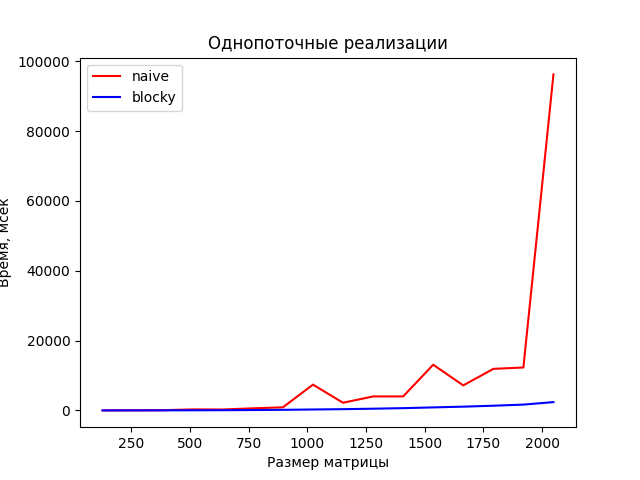
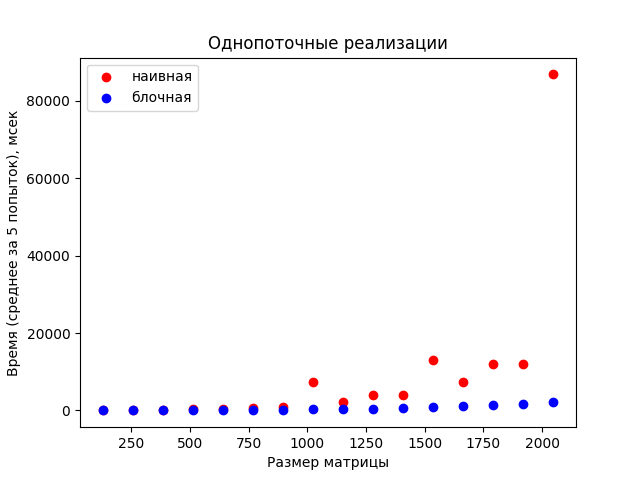
fix types of graphs

diff --git a/benchmark.py b/benchmark.py
@@ -12,6 +12,7 @@ STEP_SIZE=128
 MIN_THREADS = 2
 MAX_THREADS = 17
 STEP_THREADS = 1
+SIZE = int(np.sqrt(5 * (2 ** 20)))
 
 NUM_OF_TESTS = 5
 
@@ -51,12 +52,12 @@ compile_input_file()
 sizes = np.arange(MIN_SIZE, MAX_SIZE, STEP_SIZE)
 times1 = []
 times2 = []
-for size in sizes:
-    print(size)
+for SIZE in sizes:
+    print(SIZE)
     average1 = np.array([])
     average2 = np.array([])
     for _ in np.arange(0, NUM_OF_TESTS):
-        generate_test(size)
+        generate_test(SIZE)
         average1 = np.append(average1, execute_program(BIN_FILENAME, '1'))
         average2 = np.append(average2, execute_program(BIN_FILENAME, '2'))
     times1 = np.append(times1, np.average(average1))
@@ -64,16 +65,14 @@ for size in sizes:
 
 plt.figure('single-thread')
 plt.title('Однопоточные реализации')
-plt.plot(sizes, times1, color='red', label='naive')
-plt.plot(sizes, times2, color='blue', label='blocky')
+plt.scatter(sizes, times1, color='red', label='наивная')
+plt.scatter(sizes, times2, color='blue', label='блочная')
 plt.xlabel('Размер матрицы')
-plt.ylabel('Время, мсек')
+plt.ylabel(f'Время (среднее за {NUM_OF_TESTS} попыток), мсек')
 plt.legend()
 plt.savefig(f'{PICTURE_SERIES}1.png')
 
 
-# size = int(np.sqrt(5 * (2 ** 20)))
-size = 1000
 threads = np.arange(MIN_THREADS, MAX_THREADS, STEP_THREADS)
 times3 = []
 times4 = []
@@ -82,7 +81,7 @@ for num_of_threads in threads:
     average3 = np.array([])
     average4 = np.array([])
     for _ in np.arange(0, NUM_OF_TESTS):
-        generate_test(size)
+        generate_test(SIZE)
         average3 = np.append(average3, execute_program(BIN_FILENAME, '3', num_of_threads))
         average4 = np.append(average4, execute_program(BIN_FILENAME, '4', num_of_threads))
     times3 = np.append(times3, np.average(average3))
@@ -90,10 +89,10 @@ for num_of_threads in threads:
 
 plt.figure('multi-thread')
 plt.title('Многопоточные реализации')
-plt.plot(threads, times3, color='red', label='naive')
-plt.plot(threads, times4, color='blue', label='block')
+plt.scatter(threads, times3, color='red', label='наивная')
+plt.scatter(threads, times4, color='blue', label='блочная')
 plt.xlabel('Количество потоков')
-plt.ylabel('Время, мсек')
+plt.ylabel(f'Время (среднее за {NUM_OF_TESTS} попыток), мсек')
 plt.legend()
 plt.savefig(f'{PICTURE_SERIES}2.png')
 
